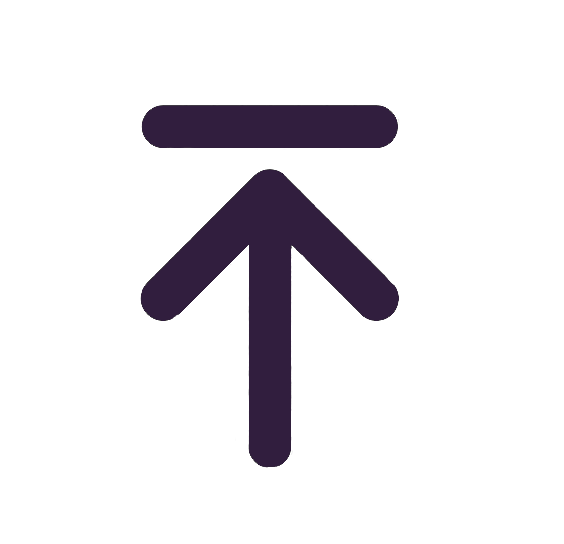
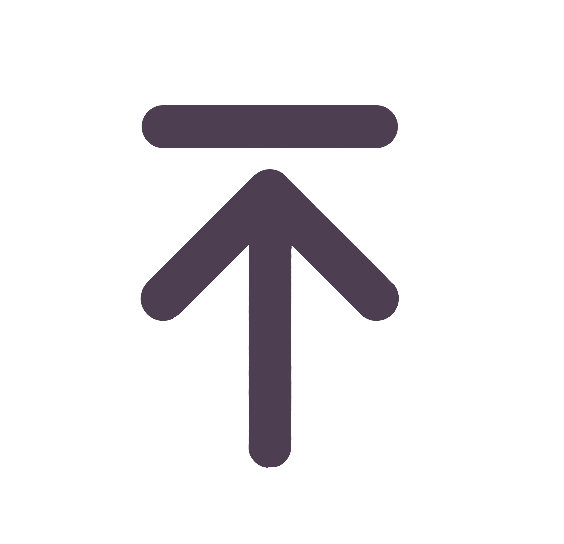
fixed color palette and created css variables for it.

Changed region(s): [[0.2411, 0.3125, 0.7234, 0.875], [0.2411, 0.1875, 0.7234, 0.2812]]

diff --git a/assets/css/main.css b/assets/css/main.css
@@ -124,7 +124,7 @@ a.tag.post.side {
     color: var(--grey3)
 }
 .share-icons a:hover {
-    color: #var(--grey1);
+    color: var(--grey1);
 }
 .sidebar.side {
     display:none;
@@ -169,7 +169,7 @@ ul.tags.post.side {
 
 /* = = = = = = = = = = Right Sidebar TOC Styles = = = = = = = = = = */
 .toc-title {
-    background-color: var(--red);
+    background-color: var(--blue);
     color: white;
     font-weight: bold;
     font-size: .9em;
@@ -195,7 +195,7 @@ ul.tags.post.side {
 }
 
 .toc-sign:hover{
-    background-color: var(--red);
+    background-color: var(--blue);
     color:white
 }
 
@@ -1874,7 +1874,7 @@ pre code {
 }
 
 .author-box .author-desc li a:hover {
-  opacity: .8;
+  opacity: .5;
 }
 
 /* = = = = = = = = = = About Page Styles = = = = = = = = = = */

diff --git a/assets/css/default color scheme.css b/assets/css/default color scheme.css
@@ -11,4 +11,4 @@
 }
 
 Palette generator:
-'https://coolors.co/87314e-4e3e51-326273-212b30-546c78-879dab-c2d0d6-e7ecee'
+https://coolors.co/87314e-4e3e51-326273-212b30-546c78-879dab-c2d0d6-e7ecee
